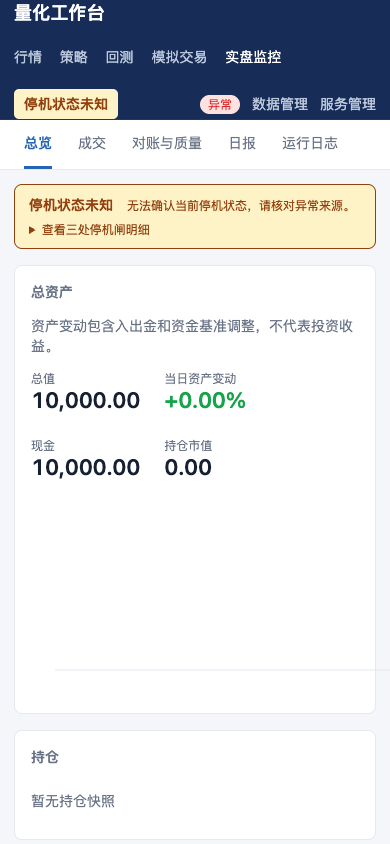
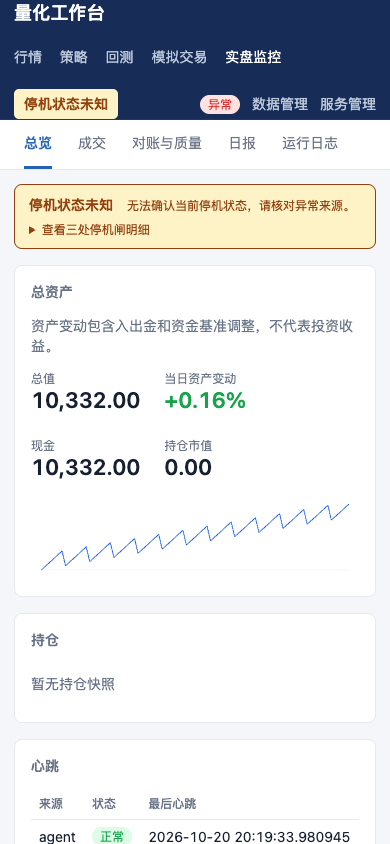
fix(web): 让实盘净值图随窄屏容器等比缩放 (#452)

diff --git a/src/qsys/web/templates/overview.html b/src/qsys/web/templates/overview.html
@@ -1,5 +1,9 @@
 {% extends "base.html" %}
 {% block content %}
+<style>
+.overview-equity-chart { margin-top:14px; }
+.overview-equity-chart svg { display:block; max-width:100%; height:auto; }
+</style>
 <div class="card">
   <h2>总资产</h2>
   <p class="muted">资产变动包含入出金和资金基准调整，不代表投资收益。</p>
@@ -14,7 +18,7 @@
     <div class="kpi"><div class="label">持仓市值</div>
       <div class="value">{{ "{:,.2f}".format(view.equity_line.market_value) }}</div></div>
   </div>
-  <div style="margin-top:14px">{{ chart | safe }}</div>
+  <div class="overview-equity-chart">{{ chart | safe }}</div>
 </div>
 
 {% if lineage %}<div class="card">

diff --git a/docs/reference/README.md b/docs/reference/README.md
@@ -1,5 +1,13 @@
 # 参考资料
 
+## 实盘净值图窄屏溢出（#449）
+
+2026-10-20 合成页面逐元素定位：390px视口被固定760px宽的净值SVG撑到791px；
+320/768px同样可复现，当前样本表格无超宽。overview图表容器限定SVG最大宽度100%、
+高度自动，保留viewBox比例和完整数据；不隐藏body溢出，不修改其他SVG生成器。
+90日合成曲线在320/390/768/1440px真实Chrome下无整页横向溢出，桌面图保持760px。
+实际账户现场验收以#449发布后记录为准，合成截图不能代替生产验收。
+
 ## 服务管理页查询延迟（#448）
 
 2026-10-20 以生产 qsys-web 账号、2233f08 制品、最小配置只读分段实测：
